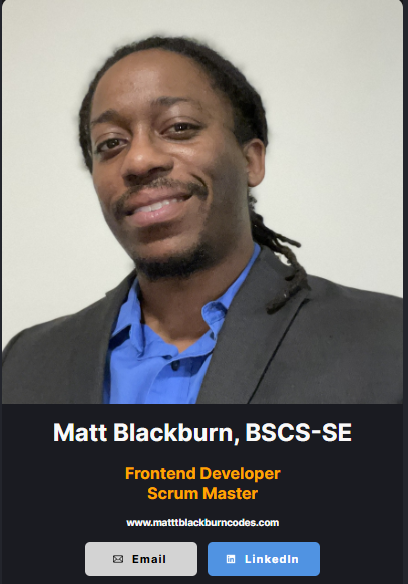
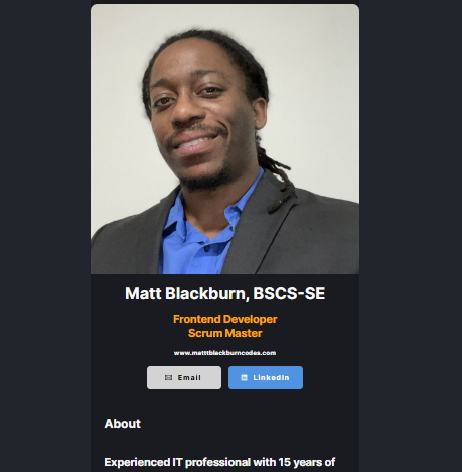
Finished adding the new project to the portfolio
Completed adding the Digital Business Card entry.

diff --git a/index.html b/index.html
@@ -492,7 +492,7 @@
                             <div class="row justify-content-center">
                                 <div class="col-lg-8">
                                     <!-- Portfolio Modal - Title-->
-                                    <h2 class="portfolio-modal-title text-secondary text-uppercase mb-0">Locked Safe</h2>
+                                    <h2 class="portfolio-modal-title text-secondary text-uppercase mb-0">Digital Business Card</h2>
                                     <!-- Icon Divider-->
                                     <div class="divider-custom">
                                         <div class="divider-custom-line"></div>
@@ -500,9 +500,9 @@
                                         <div class="divider-custom-line"></div>
                                     </div>
                                     <!-- Portfolio Modal - Image-->
-                                    <img class="img-fluid rounded mb-5" src="assets/img/portfolio/safe.png" alt="..." />
+                                    <img class="img-fluid rounded mb-5" src="assets/img/portfolio/Digital_Business_Card.png" alt="..." />
                                     <!-- Portfolio Modal - Text-->
-                                    <p class="mb-4"><section id="digital-business-card">
+                                    <p class="mb-4"><section id="digital-business-card" class="list-left">
                                         <h2>Digital Business Card</h2>
                                         <p><strong>Project URL:</strong> <a href="https://business-card-beta-three.vercel.app/" target="_blank">https://business-card-beta-three.vercel.app/</a></p>
                                         
@@ -513,11 +513,11 @@
                                         
                                         <h3>Features:</h3>
                                         <ul>
-                                            <li><strong>Responsive Design:</strong> The business card is designed to be fully responsive, ensuring it looks great on all devices, from desktops to smartphones.</li>
-                                            <li><strong>Interactive Elements:</strong> Includes interactive elements such as clickable social media icons, which redirect users to corresponding profiles.</li>
-                                            <li><strong>Modern Tech Stack:</strong> Utilizes React for the user interface and Vite for a fast and optimized development environment.</li>
-                                            <li><strong>Custom Styling:</strong> Styled using modern CSS techniques to ensure a clean and professional look.</li>
-                                            <li><strong>Fast Load Times:</strong> Leveraging Vite's efficient bundling and optimization, the application loads quickly and performs well.</li>
+                                            <li class="list-left"><strong>Responsive Design:</strong> The business card is designed to be fully responsive, ensuring it looks great on all devices, from desktops to smartphones.</li>
+                                            <li class="list-left"><strong>Interactive Elements:</strong> Includes interactive elements such as clickable social media icons, which redirect users to corresponding profiles.</li>
+                                            <li class="list-left"><strong>Modern Tech Stack:</strong> Utilizes React for the user interface and Vite for a fast and optimized development environment.</li>
+                                            <li class="list-left"><strong>Custom Styling:</strong> Styled using modern CSS techniques to ensure a clean and professional look.</li>
+                                            <li class="list-left"><strong>Fast Load Times:</strong> Leveraging Vite's efficient bundling and optimization, the application loads quickly and performs well.</li>
                                         </ul>
                                         
                                         <h3>Technologies Used:</h3>
@@ -539,9 +539,6 @@
                                             <li><strong>Optimized Performance:</strong> Utilizes Vite's fast bundling and hot module replacement for an efficient development workflow and optimized production build.</li>
                                             <li><strong>Accessible and User-Friendly:</strong> Designed with accessibility in mind, ensuring it is easy to use for all users.</li>
                                         </ul>
-                                        
-                                        <h3>Screenshots:</h3>
-                                        <p><img src="link-to-screenshot" alt="Business Card Screenshot"></p>
                                         
                                         <h3>Code Repository:</h3>
                                         <p>

diff --git a/css/styles.css b/css/styles.css
@@ -11231,3 +11231,7 @@ td{
   100% { transform: rotateY(360deg); }
 
 }
+
+.list-left{
+  text-align: left;
+}
